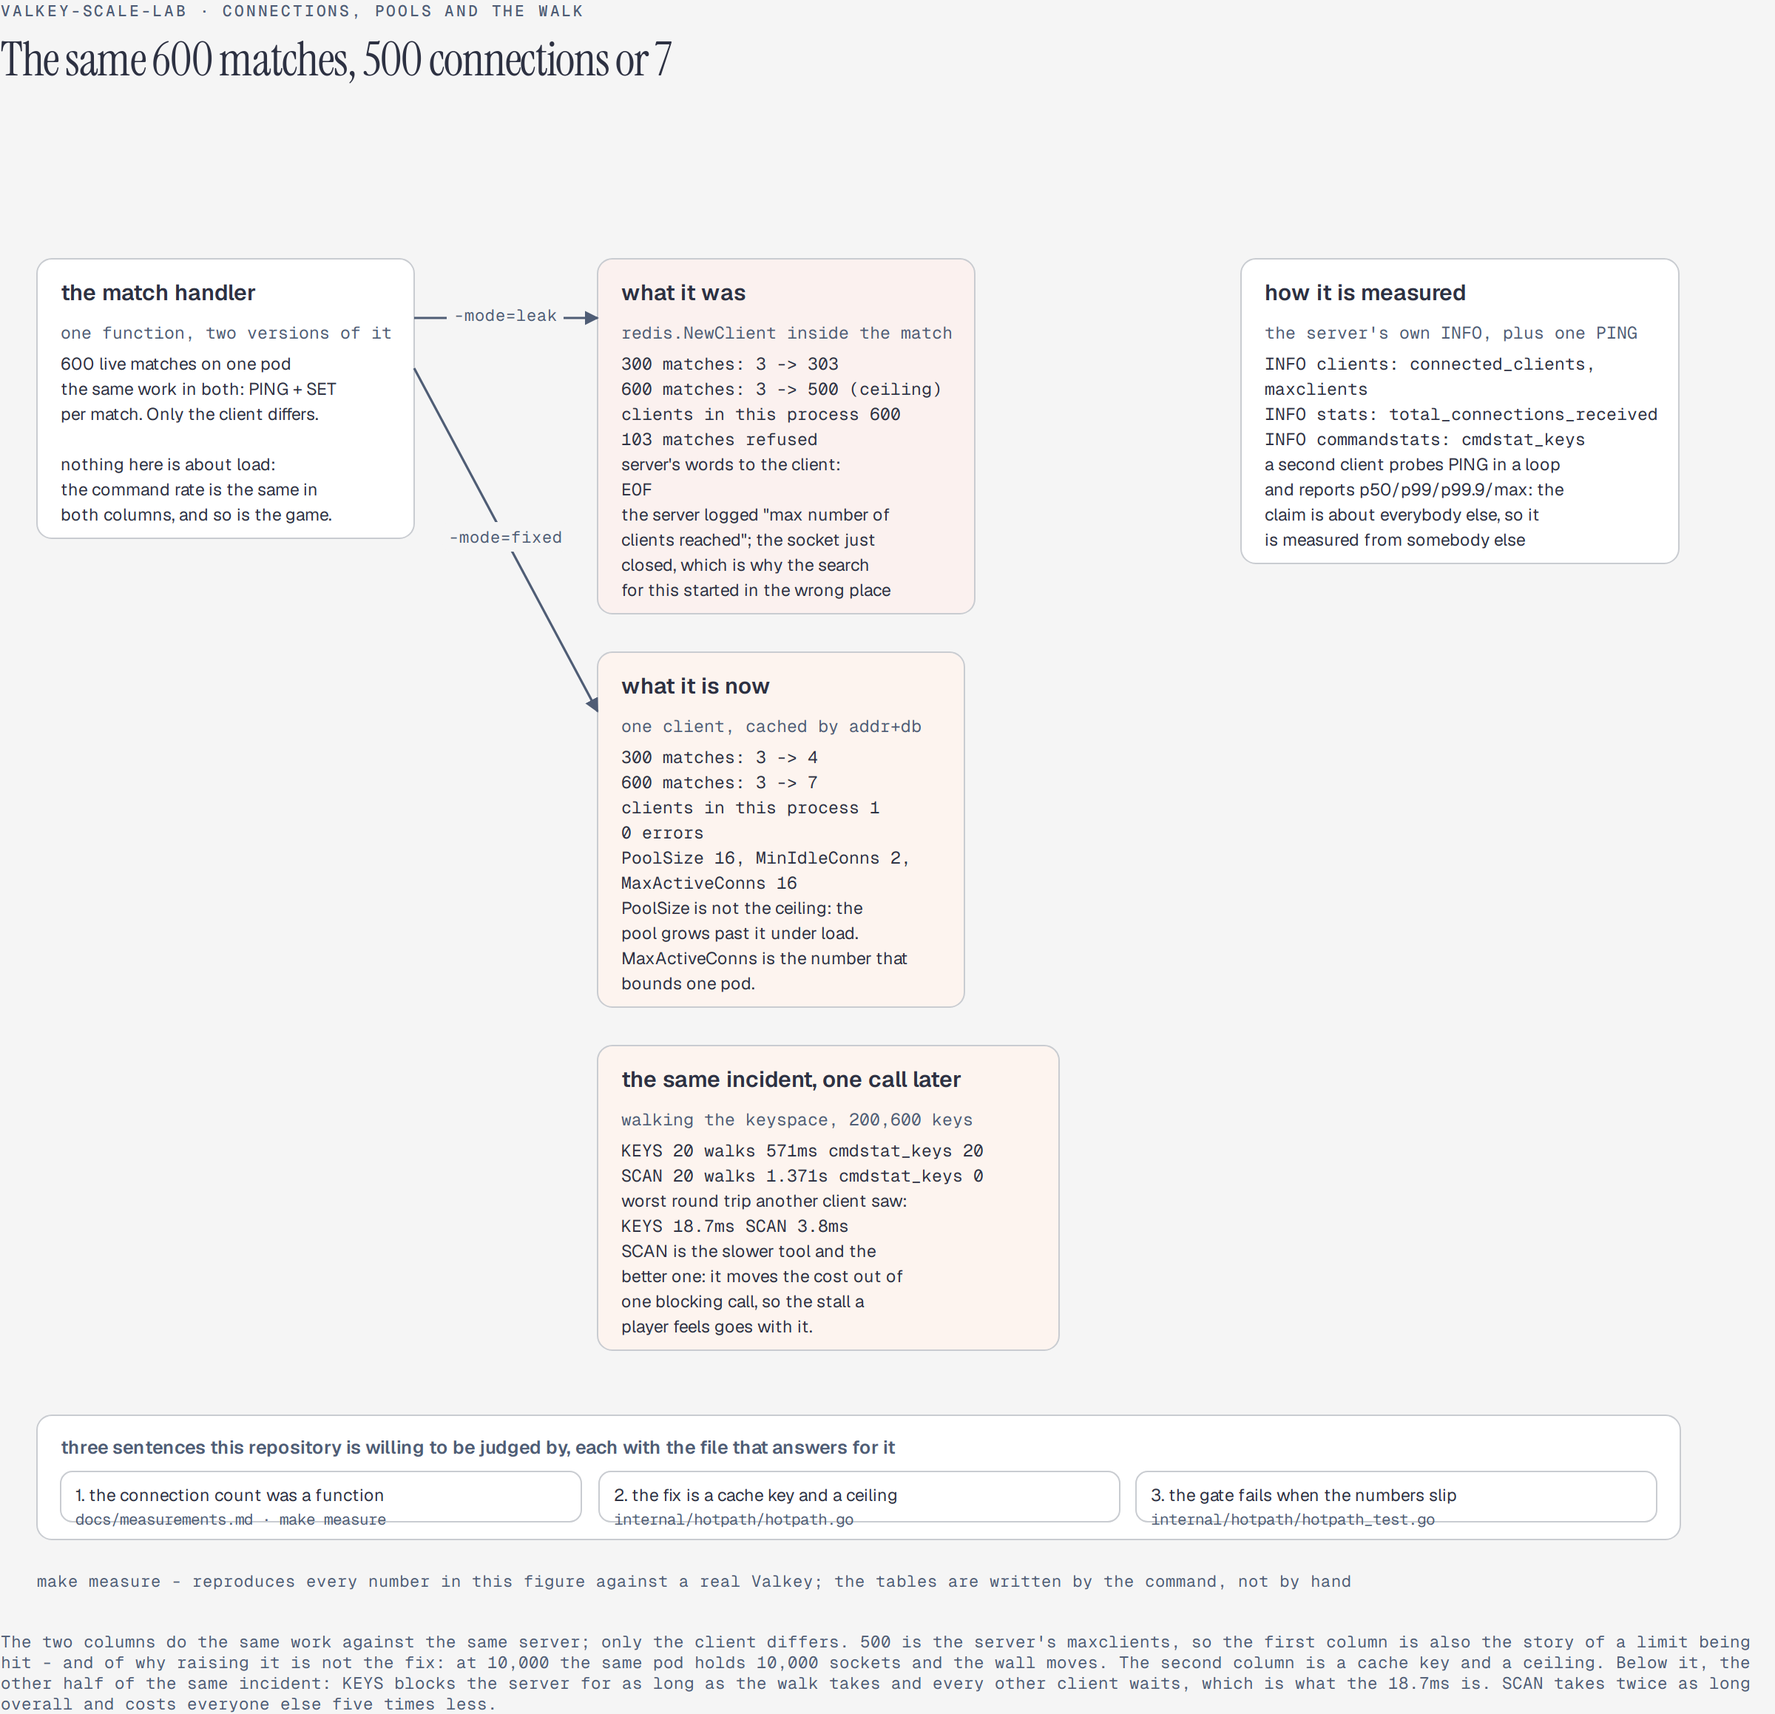
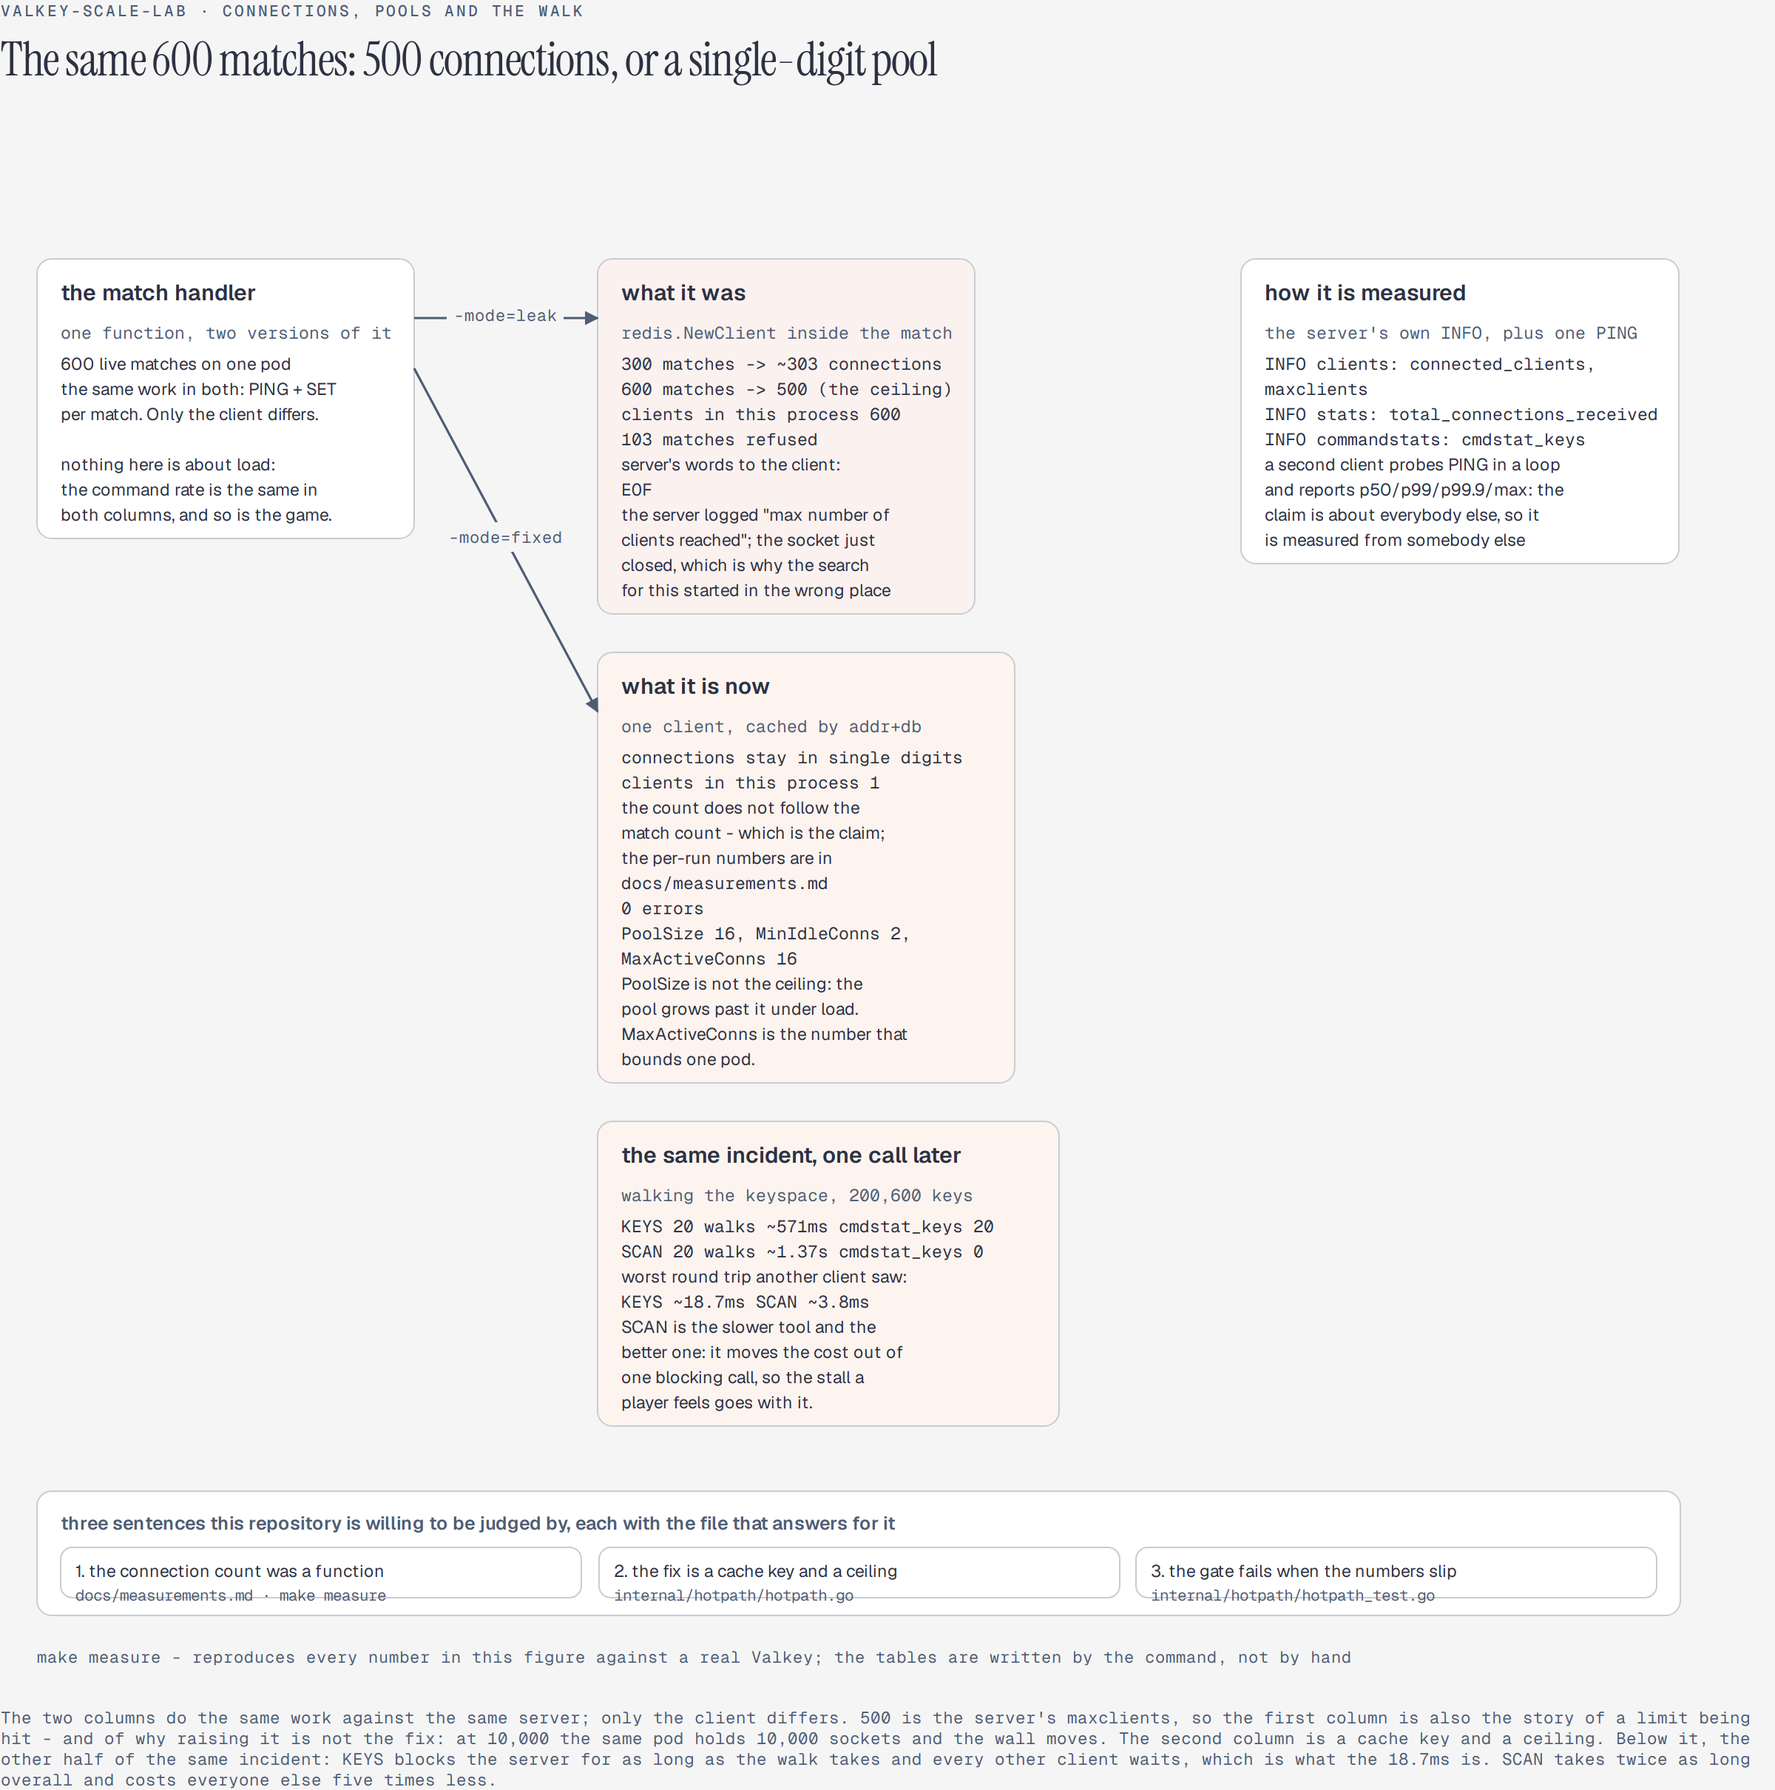
docs: a headline that does not depend on which run you read
The title quoted a single run pool count. It now states the comparison the repository is actually
about: a limit or a pool.

diff --git a/docs/figures/valkey-scale-lab-flow.html b/docs/figures/valkey-scale-lab-flow.html
@@ -28,7 +28,7 @@
 <body>
 <div class="frame">
   <p class="eyebrow">valkey-scale-lab · connections, pools and the walk</p>
-  <h1>The same 600 matches, 500 connections or 7</h1>
+  <h1>The same 600 matches: 500 connections, or a single-digit pool</h1>
   <div class="diagram-container">
 <svg viewBox="0 0 1159 1055" role="img" aria-labelledby="fig-title fig-desc" xmlns="http://www.w3.org/2000/svg"><title id="fig-title">valkey-scale-lab: a client per match, and what the fix costs</title><desc id="fig-desc">A match handler is shown in two versions with identical work. In the first, a redis client is created per match: 600 live matches produce 600 clients held open, 500 connections on the server because that is its maxclients, and 103 matches refused; the server logs "max number of clients reached" and the client only sees EOF. In the second, one client is cached by address and database with an explicit pool - PoolSize 16 and MaxActiveConns 16, the second being the actual ceiling - and the same 600 matches produce 7 connections and 0 errors. Below, the same server walked over 200,600 keys: KEYS in 20 walks takes 571 milliseconds with 20 blocking calls inside the server and the worst round trip another client saw is 18.7 milliseconds, while SCAN takes 1.371 seconds with no blocking call and the worst round trip is 3.8 milliseconds, which is the trade: SCAN is slower and it is the better tool. Measurement is by the server's own INFO, connected_clients, maxclients, total_connections_received and cmdstat_keys, plus a second client probing PING in a loop to report p50, p99, p99.9 and max.</desc><defs><marker id="arrowhead" viewBox="0 0 10 10" refX="9" refY="5" markerWidth="6" markerHeight="6" orient="auto-start-reverse"><path d="M 0 0 L 10 5 L 0 10 z" fill="#4f5d75"/></marker></defs><rect x="24" y="92" width="255" height="189" rx="10" fill="#ffffff" stroke="#c9ccd1"/><text x="40" y="120" font-family="'Geist', system-ui, sans-serif" font-size="15" font-weight="600" fill="#2d3142" text-anchor="start">the match handler</text><text x="40" y="146" font-family="'Geist Mono', ui-monospace, monospace" font-size="11.5" font-weight="400" fill="#4f5d75" text-anchor="start">one function, two versions of it</text><text x="40" y="167" font-family="'Geist', system-ui, sans-serif" font-size="11.5" font-weight="400" fill="#2d3142" text-anchor="start">600 live matches on one pod</text><text x="40" y="184" font-family="'Geist', system-ui, sans-serif" font-size="11.5" font-weight="400" fill="#2d3142" text-anchor="start">the same work in both: PING + SET</text><text x="40" y="201" font-family="'Geist', system-ui, sans-serif" font-size="11.5" font-weight="400" fill="#2d3142" text-anchor="start">per match. Only the client differs.</text><text x="40" y="218" font-family="'Geist', system-ui, sans-serif" font-size="11.5" font-weight="400" fill="#2d3142" text-anchor="start"></text><text x="40" y="235" font-family="'Geist', system-ui, sans-serif" font-size="11.5" font-weight="400" fill="#2d3142" text-anchor="start">nothing here is about load:</text><text x="40" y="252" font-family="'Geist', system-ui, sans-serif" font-size="11.5" font-weight="400" fill="#2d3142" text-anchor="start">the command rate is the same in</text><text x="40" y="269" font-family="'Geist', system-ui, sans-serif" font-size="11.5" font-weight="400" fill="#2d3142" text-anchor="start">both columns, and so is the game.</text><rect x="403" y="92" width="255" height="240" rx="10" fill="#fbf1ef" stroke="#c9ccd1"/><text x="419" y="120" font-family="'Geist', system-ui, sans-serif" font-size="15" font-weight="600" fill="#2d3142" text-anchor="start">what it was</text><text x="419" y="146" font-family="'Geist Mono', ui-monospace, monospace" font-size="11.5" font-weight="400" fill="#4f5d75" text-anchor="start">redis.NewClient inside the match</text><text x="419" y="167" font-family="'Geist Mono', ui-monospace, monospace" font-size="11.5" font-weight="400" fill="#2d3142" text-anchor="start">300 matches -&gt; ~303 connections</text><text x="419" y="184" font-family="'Geist Mono', ui-monospace, monospace" font-size="11.5" font-weight="400" fill="#2d3142" text-anchor="start">600 matches -&gt; 500 (the ceiling)</text><text x="419" y="201" font-family="'Geist Mono', ui-monospace, monospace" font-size="11.5" font-weight="400" fill="#2d3142" text-anchor="start">clients in this process     600</text><text x="419" y="218" font-family="'Geist Mono', ui-monospace, monospace" font-size="11.5" font-weight="400" fill="#2d3142" text-anchor="start">103 matches refused</text><text x="419" y="235" font-family="'Geist', system-ui, sans-serif" font-size="11.5" font-weight="400" fill="#2d3142" text-anchor="start">server&#x27;s words to the client:</text><text x="419" y="252" font-family="'Geist Mono', ui-monospace, monospace" font-size="11.5" font-weight="400" fill="#2d3142" text-anchor="start">  EOF</text><text x="419" y="269" font-family="'Geist', system-ui, sans-serif" font-size="11.5" font-weight="400" fill="#2d3142" text-anchor="start">the server logged &quot;max number of</text><text x="419" y="286" font-family="'Geist', system-ui, sans-serif" font-size="11.5" font-weight="400" fill="#2d3142" text-anchor="start">clients reached&quot;; the socket just</text><text x="419" y="303" font-family="'Geist', system-ui, sans-serif" font-size="11.5" font-weight="400" fill="#2d3142" text-anchor="start">closed, which is why the search</text><text x="419" y="320" font-family="'Geist', system-ui, sans-serif" font-size="11.5" font-weight="400" fill="#2d3142" text-anchor="start">for this started in the wrong place</text><rect x="403" y="358" width="282" height="291" rx="10" fill="#fdf4ef" stroke="#c9ccd1"/><text x="419" y="386" font-family="'Geist', system-ui, sans-serif" font-size="15" font-weight="600" fill="#2d3142" text-anchor="start">what it is now</text><text x="419" y="412" font-family="'Geist Mono', ui-monospace, monospace" font-size="11.5" font-weight="400" fill="#4f5d75" text-anchor="start">one client, cached by addr+db</text><text x="419" y="433" font-family="'Geist Mono', ui-monospace, monospace" font-size="11.5" font-weight="400" fill="#2d3142" text-anchor="start">connections stay in single digits</text><text x="419" y="450" font-family="'Geist Mono', ui-monospace, monospace" font-size="11.5" font-weight="400" fill="#2d3142" text-anchor="start">clients in this process            1</text><text x="419" y="467" font-family="'Geist', system-ui, sans-serif" font-size="11.5" font-weight="400" fill="#2d3142" text-anchor="start">the count does not follow the</text><text x="419" y="484" font-family="'Geist', system-ui, sans-serif" font-size="11.5" font-weight="400" fill="#2d3142" text-anchor="start">match count - which is the claim;</text><text x="419" y="501" font-family="'Geist', system-ui, sans-serif" font-size="11.5" font-weight="400" fill="#2d3142" text-anchor="start">the per-run numbers are in</text><text x="419" y="518" font-family="'Geist Mono', ui-monospace, monospace" font-size="11.5" font-weight="400" fill="#2d3142" text-anchor="start">docs/measurements.md</text><text x="419" y="535" font-family="'Geist Mono', ui-monospace, monospace" font-size="11.5" font-weight="400" fill="#2d3142" text-anchor="start">0 errors</text><text x="419" y="552" font-family="'Geist Mono', ui-monospace, monospace" font-size="11.5" font-weight="400" fill="#2d3142" text-anchor="start">PoolSize 16, MinIdleConns 2,</text><text x="419" y="569" font-family="'Geist Mono', ui-monospace, monospace" font-size="11.5" font-weight="400" fill="#2d3142" text-anchor="start">MaxActiveConns 16</text><text x="419" y="586" font-family="'Geist', system-ui, sans-serif" font-size="11.5" font-weight="400" fill="#2d3142" text-anchor="start">PoolSize is not the ceiling: the</text><text x="419" y="603" font-family="'Geist', system-ui, sans-serif" font-size="11.5" font-weight="400" fill="#2d3142" text-anchor="start">pool grows past it under load.</text><text x="419" y="620" font-family="'Geist', system-ui, sans-serif" font-size="11.5" font-weight="400" fill="#2d3142" text-anchor="start">MaxActiveConns is the number that</text><text x="419" y="637" font-family="'Geist', system-ui, sans-serif" font-size="11.5" font-weight="400" fill="#2d3142" text-anchor="start">bounds one pod.</text><rect x="403" y="675" width="312" height="206" rx="10" fill="#fdf4ef" stroke="#c9ccd1"/><text x="419" y="703" font-family="'Geist', system-ui, sans-serif" font-size="15" font-weight="600" fill="#2d3142" text-anchor="start">the same incident, one call later</text><text x="419" y="729" font-family="'Geist Mono', ui-monospace, monospace" font-size="11.5" font-weight="400" fill="#4f5d75" text-anchor="start">walking the keyspace, 200,600 keys</text><text x="419" y="750" font-family="'Geist Mono', ui-monospace, monospace" font-size="11.5" font-weight="400" fill="#2d3142" text-anchor="start">KEYS  20 walks  ~571ms  cmdstat_keys 20</text><text x="419" y="767" font-family="'Geist Mono', ui-monospace, monospace" font-size="11.5" font-weight="400" fill="#2d3142" text-anchor="start">SCAN  20 walks  ~1.37s  cmdstat_keys  0</text><text x="419" y="784" font-family="'Geist', system-ui, sans-serif" font-size="11.5" font-weight="400" fill="#2d3142" text-anchor="start">worst round trip another client saw:</text><text x="419" y="801" font-family="'Geist Mono', ui-monospace, monospace" font-size="11.5" font-weight="400" fill="#2d3142" text-anchor="start">  KEYS ~18.7ms     SCAN ~3.8ms</text><text x="419" y="818" font-family="'Geist', system-ui, sans-serif" font-size="11.5" font-weight="400" fill="#2d3142" text-anchor="start">SCAN is the slower tool and the</text><text x="419" y="835" font-family="'Geist', system-ui, sans-serif" font-size="11.5" font-weight="400" fill="#2d3142" text-anchor="start">better one: it moves the cost out of</text><text x="419" y="852" font-family="'Geist', system-ui, sans-serif" font-size="11.5" font-weight="400" fill="#2d3142" text-anchor="start">one blocking call, so the stall a</text><text x="419" y="869" font-family="'Geist', system-ui, sans-serif" font-size="11.5" font-weight="400" fill="#2d3142" text-anchor="start">player feels goes with it.</text><rect x="838" y="92" width="296" height="206" rx="10" fill="#ffffff" stroke="#c9ccd1"/><text x="854" y="120" font-family="'Geist', system-ui, sans-serif" font-size="15" font-weight="600" fill="#2d3142" text-anchor="start">how it is measured</text><text x="854" y="146" font-family="'Geist Mono', ui-monospace, monospace" font-size="11.5" font-weight="400" fill="#4f5d75" text-anchor="start">the server&#x27;s own INFO, plus one PING</text><text x="854" y="167" font-family="'Geist Mono', ui-monospace, monospace" font-size="11.5" font-weight="400" fill="#2d3142" text-anchor="start">INFO clients: connected_clients,</text><text x="854" y="184" font-family="'Geist Mono', ui-monospace, monospace" font-size="11.5" font-weight="400" fill="#2d3142" text-anchor="start">  maxclients</text><text x="854" y="201" font-family="'Geist Mono', ui-monospace, monospace" font-size="11.5" font-weight="400" fill="#2d3142" text-anchor="start">INFO stats: total_connections_received</text><text x="854" y="218" font-family="'Geist Mono', ui-monospace, monospace" font-size="11.5" font-weight="400" fill="#2d3142" text-anchor="start">INFO commandstats: cmdstat_keys</text><text x="854" y="235" font-family="'Geist', system-ui, sans-serif" font-size="11.5" font-weight="400" fill="#2d3142" text-anchor="start">a second client probes PING in a loop</text><text x="854" y="252" font-family="'Geist', system-ui, sans-serif" font-size="11.5" font-weight="400" fill="#2d3142" text-anchor="start">and reports p50/p99/p99.9/max: the</text><text x="854" y="269" font-family="'Geist', system-ui, sans-serif" font-size="11.5" font-weight="400" fill="#2d3142" text-anchor="start">claim is about everybody else, so it</text><text x="854" y="286" font-family="'Geist', system-ui, sans-serif" font-size="11.5" font-weight="400" fill="#2d3142" text-anchor="start">is measured from somebody else</text><line x1="279" y1="132" x2="403" y2="132" stroke="#4f5d75" stroke-width="1.6" marker-end="url(#arrowhead)"/><rect x="301" y="120" width="79" height="20" rx="5" fill="#f5f5f5" stroke="none"/><text x="341" y="134" font-family="'Geist Mono', ui-monospace, monospace" font-size="11" font-weight="400" fill="#4f5d75" text-anchor="middle">-mode=leak</text><line x1="279" y1="166" x2="403" y2="398" stroke="#4f5d75" stroke-width="1.6" marker-end="url(#arrowhead)"/><rect x="298" y="270" width="85" height="20" rx="5" fill="#f5f5f5" stroke="none"/><text x="341" y="284" font-family="'Geist Mono', ui-monospace, monospace" font-size="11" font-weight="400" fill="#4f5d75" text-anchor="middle">-mode=fixed</text><rect x="24" y="925" width="1111" height="84" rx="10" fill="#ffffff" stroke="#c9ccd1"/><text x="40" y="951" font-family="'Geist', system-ui, sans-serif" font-size="12.5" font-weight="600" fill="#4f5d75" text-anchor="start">three sentences this repository is willing to be judged by, each with the file that answers for it</text><rect x="40" y="963" width="352" height="34" rx="8" fill="#ffffff" stroke="#c9ccd1"/><text x="50" y="983" font-family="'Geist', system-ui, sans-serif" font-size="11.5" font-weight="400" fill="#2d3142" text-anchor="start">1. the connection count was a function</text><text x="50" y="999" font-family="'Geist Mono', ui-monospace, monospace" font-size="10.5" font-weight="400" fill="#4f5d75" text-anchor="start">docs/measurements.md · make measure</text><rect x="404" y="963" width="352" height="34" rx="8" fill="#ffffff" stroke="#c9ccd1"/><text x="414" y="983" font-family="'Geist', system-ui, sans-serif" font-size="11.5" font-weight="400" fill="#2d3142" text-anchor="start">2. the fix is a cache key and a ceiling</text><text x="414" y="999" font-family="'Geist Mono', ui-monospace, monospace" font-size="10.5" font-weight="400" fill="#4f5d75" text-anchor="start">internal/hotpath/hotpath.go</text><rect x="767" y="963" width="352" height="34" rx="8" fill="#ffffff" stroke="#c9ccd1"/><text x="777" y="983" font-family="'Geist', system-ui, sans-serif" font-size="11.5" font-weight="400" fill="#2d3142" text-anchor="start">3. the gate fails when the numbers slip</text><text x="777" y="999" font-family="'Geist Mono', ui-monospace, monospace" font-size="10.5" font-weight="400" fill="#4f5d75" text-anchor="start">internal/hotpath/hotpath_test.go</text><text x="24" y="1041" font-family="'Geist Mono', ui-monospace, monospace" font-size="11" font-weight="400" fill="#4f5d75" text-anchor="start">make measure - reproduces every number in this figure against a real Valkey; the tables are written by the command, not by hand</text></svg>
   </div>

diff --git a/docs/figures/valkey-scale-lab-flow.generator.py b/docs/figures/valkey-scale-lab-flow.generator.py
@@ -235,7 +235,7 @@ page = f"""{meta}
 <body>
 <div class="frame">
   <p class="eyebrow">valkey-scale-lab · connections, pools and the walk</p>
-  <h1>The same 600 matches, 500 connections or 7</h1>
+  <h1>The same 600 matches: 500 connections, or a single-digit pool</h1>
   <div class="diagram-container">
 {"".join(svg)}
   </div>

diff --git a/README.md b/README.md
@@ -1,6 +1,6 @@
 # valkey-scale-lab
 
-The same 600 matches, 500 connections or 7.
+The same 600 matches: 500 connections, or a single-digit pool.
 
 A Redis (Valkey) client created inside a match handler looks like a local variable. It is a
 connection pool, and a pod running ten thousand matches has ten thousand pools - which is how a real
